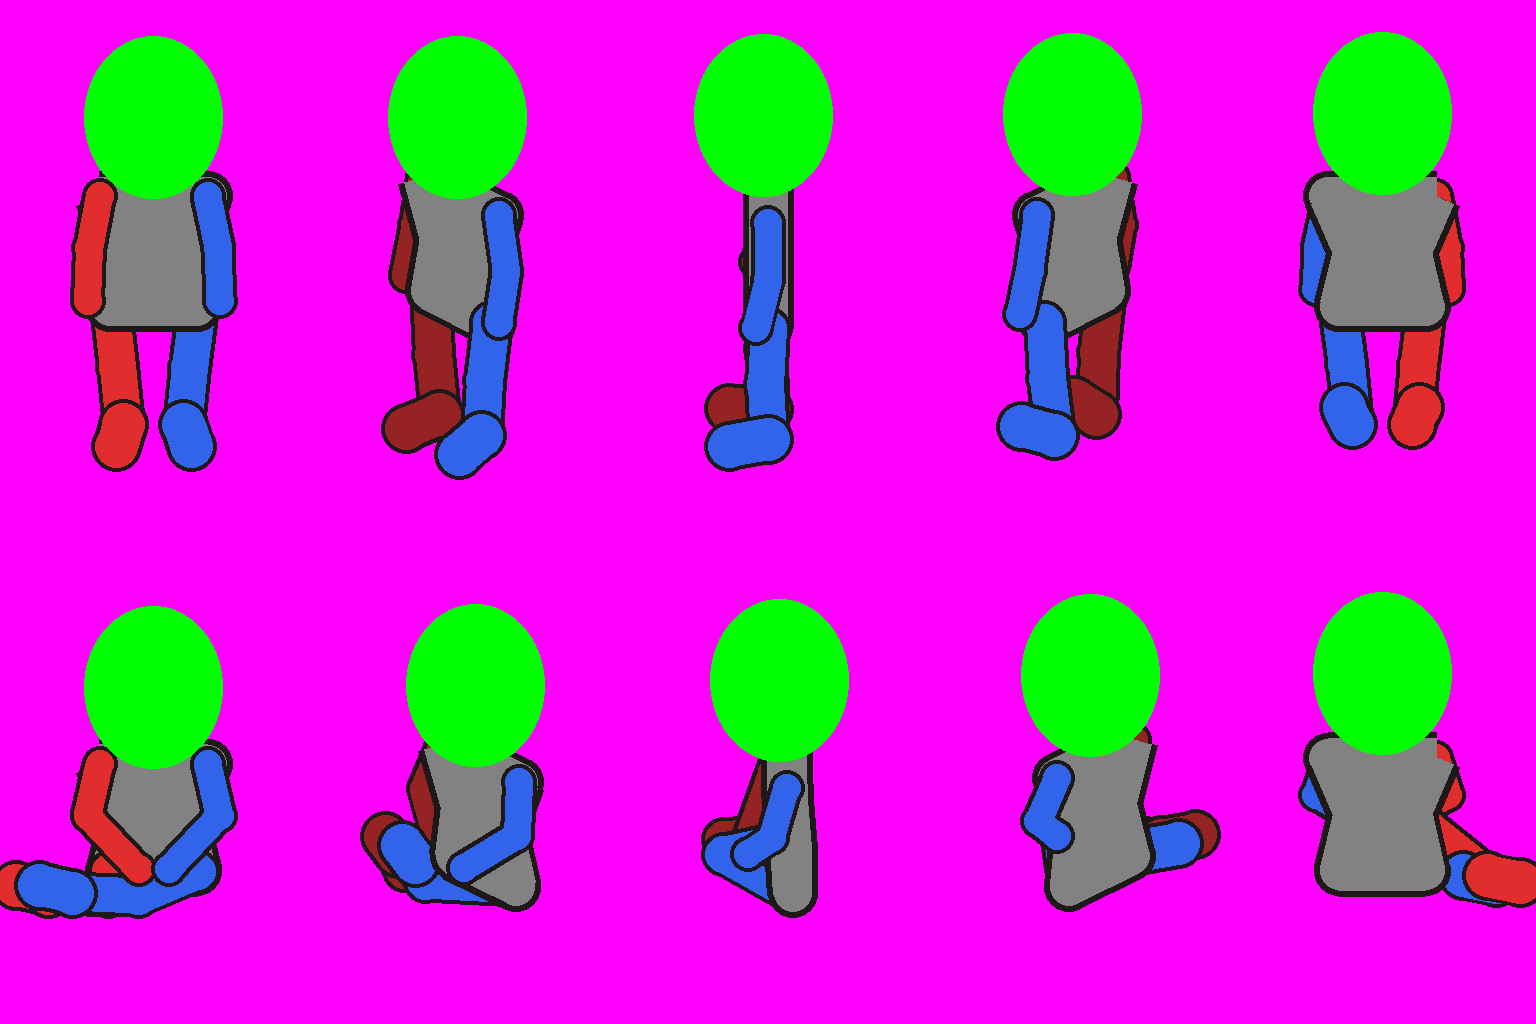
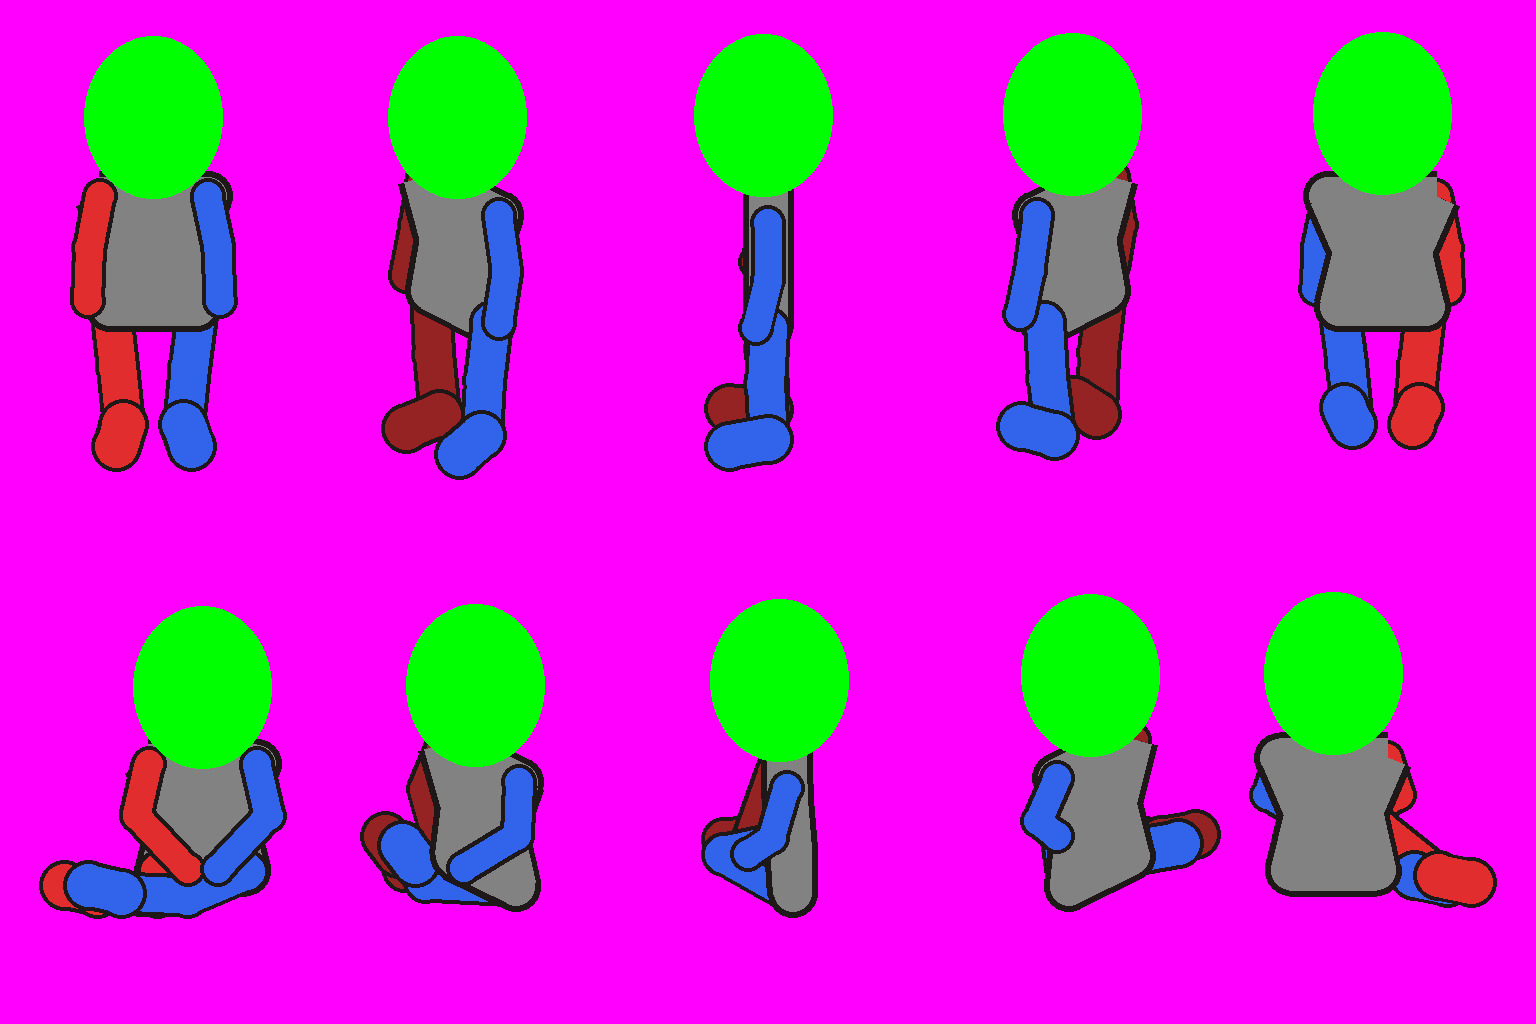
Teil U: Novizin in allen Richtungen, Sitz-Vorlage w korrigiert

Changed region(s): [[0.0, 0.5938, 0.1875, 0.9062], [0.8125, 0.5625, 1.0, 0.9062]]

diff --git a/tools/posen_vorlage.py b/tools/posen_vorlage.py
@@ -192,6 +192,9 @@ def blatt(reihen: list, spalten: int, mass: float, geschlecht: str, boden_anteil
 			boden_y = r * zelle_h + zelle_h - boden_anteil * zelle_h - (0.10 * zelle_h if pose == "sitzen" else 0)
 			# Sitzende, die nach links schauen, etwas nach rechts rücken (die Beine ragen nach links)
 			versatz = 0.08 * zelle_b if pose == "sitzen" and richtung in ("schraeg_vorne", "seite", "schraeg_hinten") else 0
+			# Sitzende Frau: die Beine liegen seitlich, von vorne ragen sie nach links, von hinten nach rechts
+			if pose == "sitzen" and geschlecht == "w":
+				versatz = {"vorne": 0.16, "hinten": -0.16}.get(richtung, versatz / zelle_b) * zelle_b
 			figur(zeichnung, pose, bild_nr, richtung, s * zelle_b + zelle_b / 2 + versatz, boden_y, mass, geschlecht)
 	return bild
 
